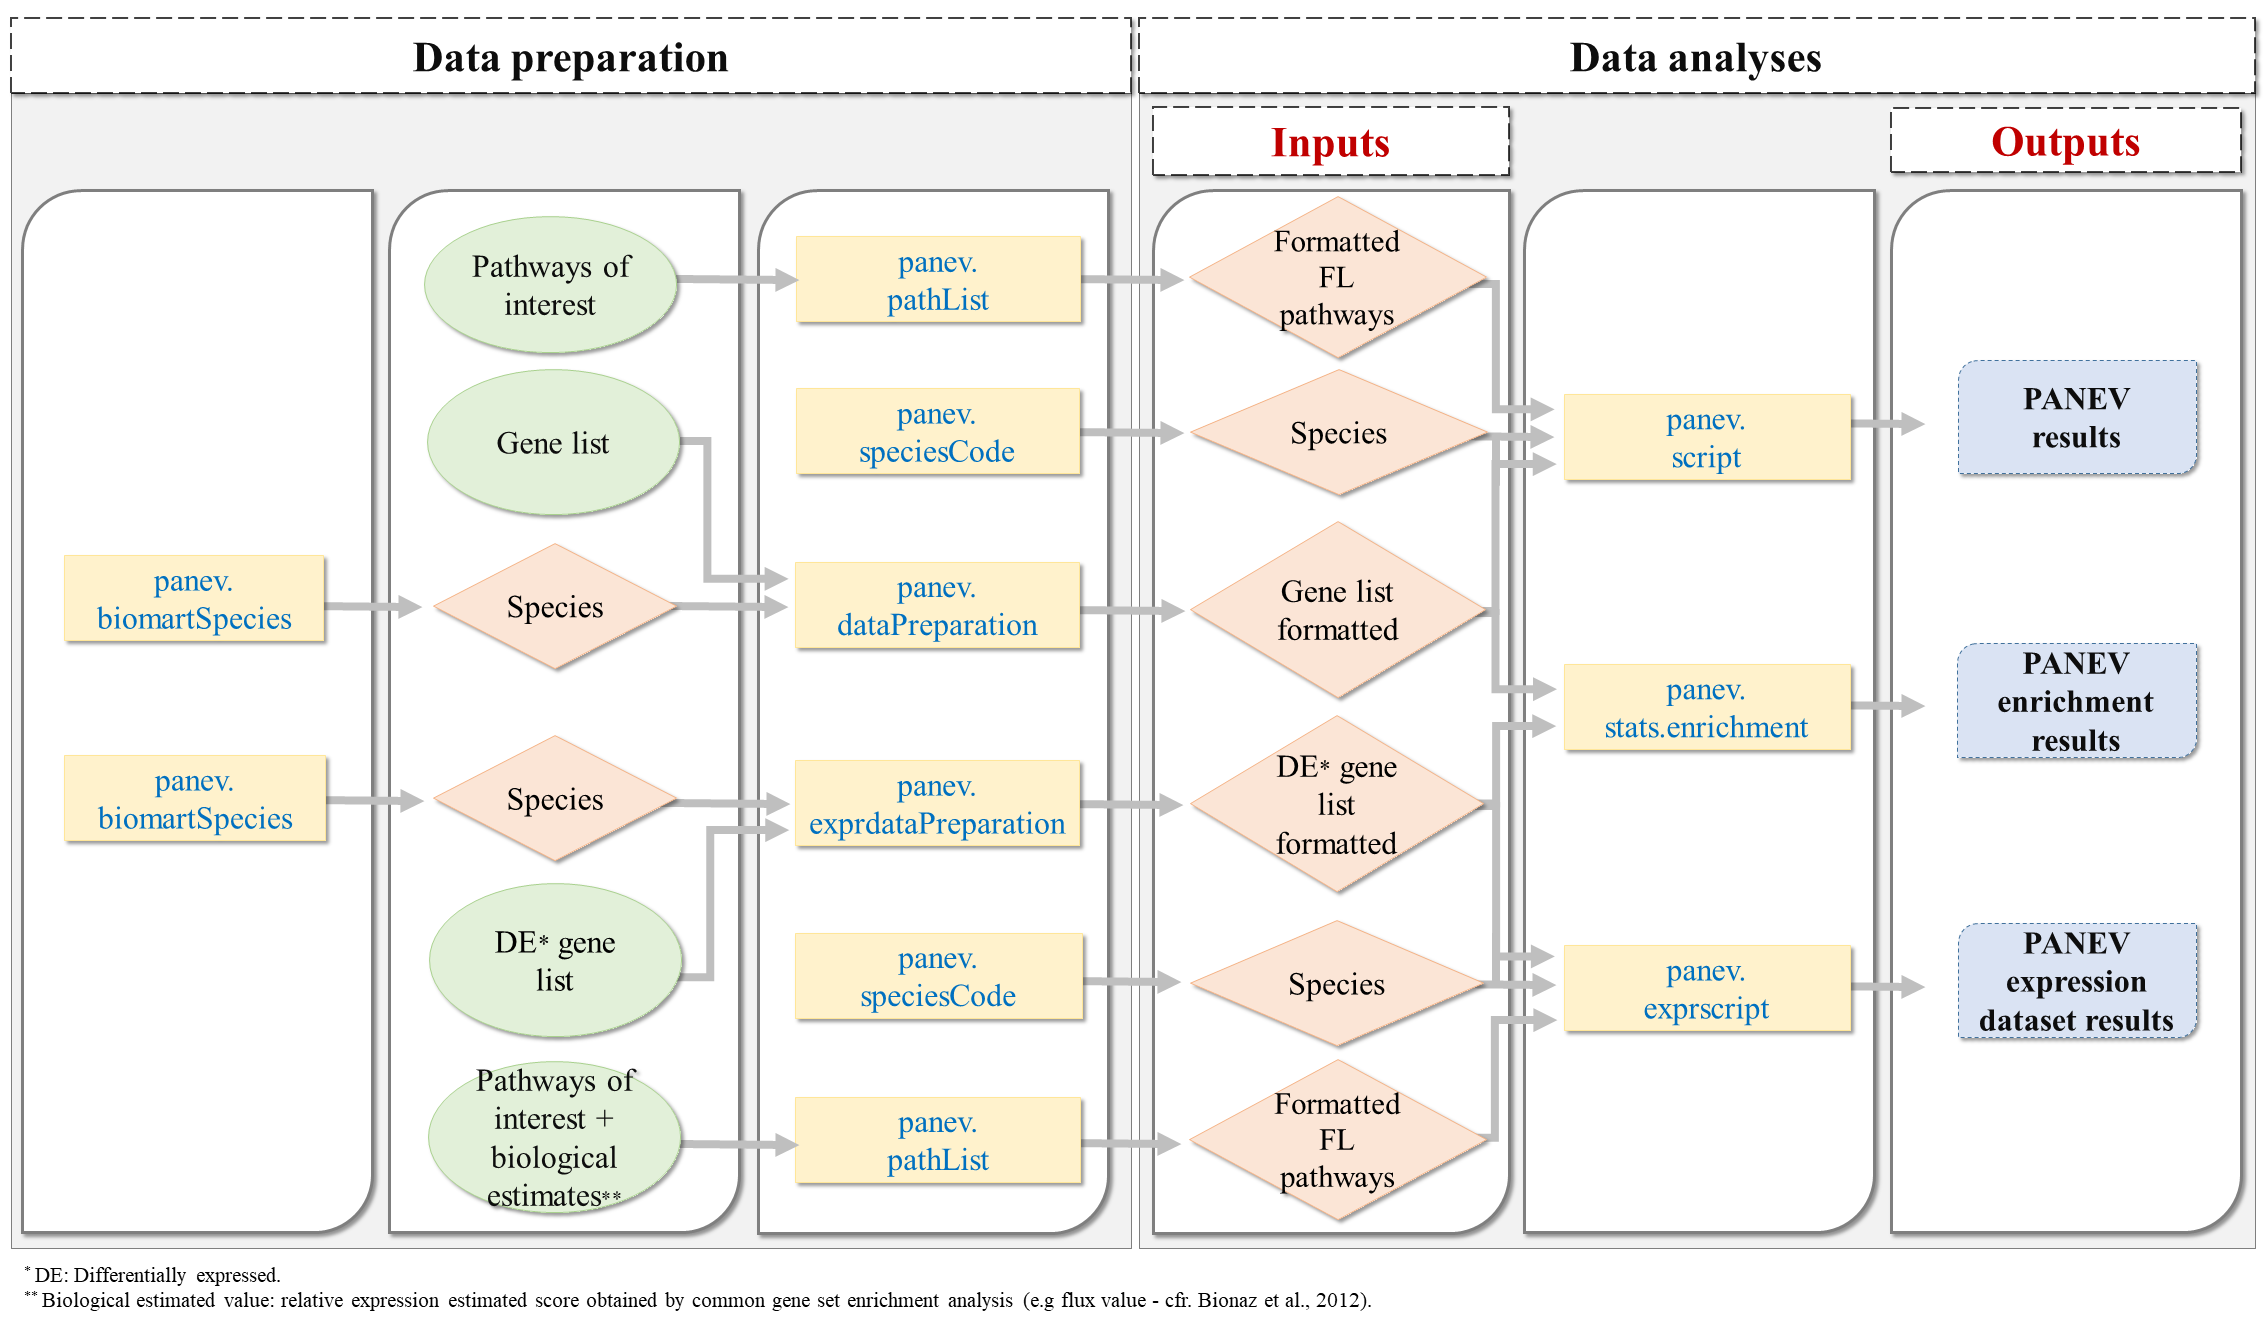
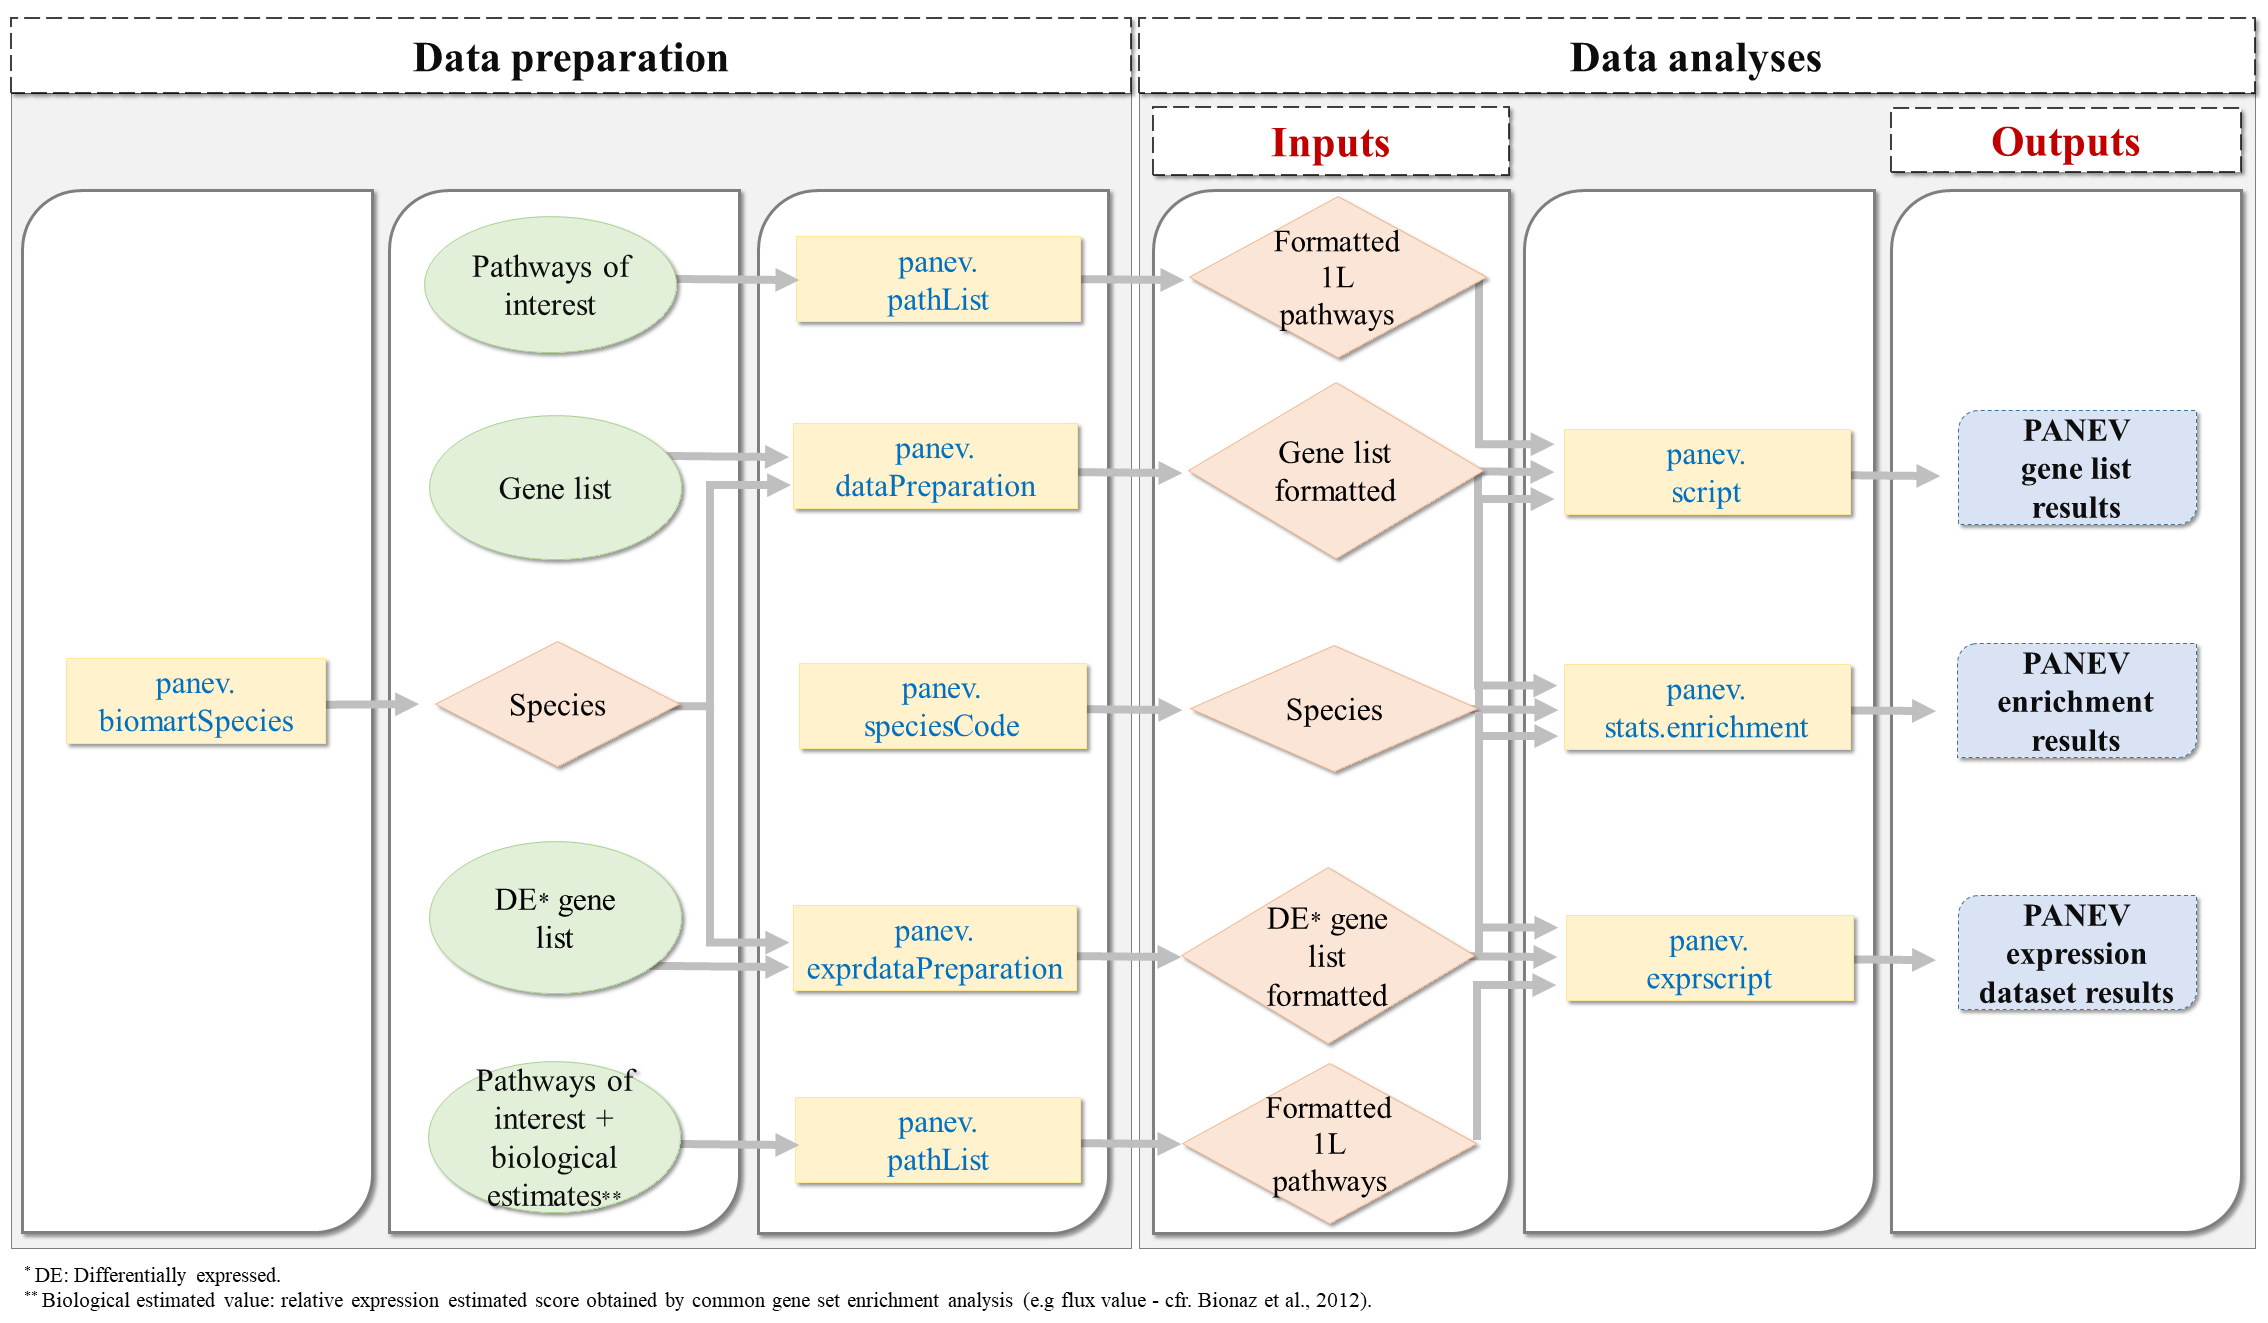
readme updated

Changed region(s): [[0.0309, 0.2169, 0.9877, 0.9297], [0.8025, 0.5268, 0.8642, 0.5578]]

diff --git a/README.md b/README.md
@@ -13,7 +13,7 @@ Author: Valentino Palombo, Marco Milanesi, Gabriella Sferra, Stefano Capomaccio,
 
 Maintainer: Valentino Palombo <valentino.palombo@gmail.com>
 
-Description: PaNeV is an R package set for pathway-based network gene visualization. Based on information available on KEGG, it maps and visualizes genes within a network of upstream and downstream-connected pathways (from 1 to *n* levels). The pathway graphs help interpreting functional profiles of cluster of genes.
+Description: PANEV is an R package set for pathway-based network gene visualization. Based on information available on KEGG, it maps and visualizes genes within a network of upstream and downstream-connected pathways (from 1 to *n* levels). The graph helps to interpret functional profiles of cluster of genes.
 
 License: Artistic-2.0
 
@@ -31,7 +31,7 @@ Since the package relies on KEGG, PANEV returns meaningful results only for gene
 Installation
 ============
 
-This manual focuses on PaNeV v.1.0. PaNeV requires the pre-installation of ‘devtools’ package from CRAN (<https://cran.r-project.org/package=devtools>). Once satisfied the requirement, the R scripts and package described in this manual can be downloaded and installed from github link <https://github.com/vpalombo/panev>. The package is installed using:
+This manual focuses on PANEV v.1.0. PANEV requires the pre-installation of ‘devtools’ package from CRAN (<https://cran.r-project.org/package=devtools>). Once satisfied the requirement, the R scripts and package described in this manual can be downloaded and installed from github link (<https://github.com/vpalombo/panev>) using:
 
     #install devtools
     install.packages("devtools") #if needed
@@ -40,7 +40,7 @@ This manual focuses on PaNeV v.1.0. PaNeV requires the pre-installation of ‘de
     library("devtools")
     install_github("vpalombo/PANEV")
 
-To load the package into the R environment type:
+To load the package into the R environment (R ≥ 3.5.0) type:
 
     library("PANEV")
 
@@ -49,14 +49,14 @@ PANEV functions and workflow
 
 PANEV functions could be divided in two different steps: data preparation and data analyses.
 
-Since PANEV interrogates biomaRt or KEGG databases through KEGGREST, a **working internet connection** is required to properly run PANEV functions.
+Since PANEV interrogates biomaRt and/or KEGG databases, a **working internet connection** is required to properly run PANEV functions.
 
 <br> <img src="https://github.com/vpalombo/PANEV/tree/master/vignettes/images/fig1.jpg" alt="Fig.1: The general architecture of the workflow of PANEV package and schematic illustration of main functions. The yellow rectangles represent the PANEV functions. The green circles represent the input data lists, in particular gene or pathway lists. The red diamonds represent the output from data preparation PANEV functions. The blue rectangles represent the final PANEV outcomes." width="450"> <br>
 
 Example files
 =============
 
-Example input files used in the help pages can be created with the command:
+Trial data files used in the help pages can be created with the command:
 
 ``` r
 # Copy the example data in the current working directory
@@ -73,7 +73,7 @@ The files comprise:
     -   *exprdata.txt*. An example of differentally expressed genes (DEG) list properly formatted and ready to run PANEV main functions;
     -   *expr\_listPath.txt*. An example file containing the list of main pathway of interest (FL or 1L) with relative expression estimated scores \[i.e. flux values obtained with Dinamic Impact Approach (Bionaz et al., 2012)\].
 
-Example input files used for the validation in reference publication can be created using the command:
+Input files used for the validation in reference publication can be created using the command:
 
 ``` r
 # Copy the example data in the current working directory
@@ -93,7 +93,7 @@ In this case, the files comprise:
 Data preparation
 ================
 
-The preparation of a properly formatted **list of genes** and **main pathways of interest** (FL or 1L) is the first step before run main PANEV functions.
+The preparation of a properly formatted **list of genes** and **main pathways of interest** (FL or 1L) is the first step before running main PANEV functions.
 
 Gene list preparation
 ---------------------
@@ -145,7 +145,7 @@ For genomic data, PANEV requires a specific format dataset. The list of the gene
 
 User can create a properly formatted dataset from a simple gene list using *panev.dataPreparation* function. This function will convert the single gene list from **ensembl** to **entrez** gene ID (or vice versa), and add at the same time the **gene symbol**.
 
-It is strongly recommended to run this function before using *panev.script*.
+It is recommended to run this function before using *panev.script*.
 
 Preparation of formatted gene list from ensembl gene ID:
 
@@ -229,7 +229,7 @@ For transcriptomic data, PANEV requires a specific format dataset. The gene list
 
 User can create a PANEV formatted dataset using *panev.exprdataPreparation* function. This function will convert the DEG list with relative **FC** and **p-value** from **ensembl** to **entrez** gene ID (or vice versa), and add at the same time **gene symbols**.
 
-It is strongly recommended to run this function before using *panev.exprscript*.
+It is recommended to run this function before using *panev.exprscript*.
 
 Preparation of formatted DEG list from ensembl gene ID:
 
@@ -343,19 +343,19 @@ list
 
 ### For genomic dataset analysis
 
-In case of genomic dataset analysis, the FL must be provided as a **vector of PANEV pathways identifiers** (*path\_ID*) obtained with *panev.pathList*.
+In case of genomic dataset analysis, the FL (1L) must be provided as a **vector of PANEV pathways identifiers** (*path\_ID*) obtained with *panev.pathList*.
 
 ``` r
-# Create a vector of pathways of interest (FL)
+# Create a vector of main pathways of interest (FL)
 FL.gene <- c("path:map00061", "path:map00062", "path:map00071", "path:map00072")
 ```
 
 ### For transcriptomic dataset analysis
 
-In case of transcriptomic dataset analysis, the FL must be provided as a **'*.txt*' file**, stored in working directory, with the **list of *path\_ID***, obtained with *panev.pathList*, and **relative expression estimated scores**, obtained by gene set enrichment analysis \[e.g. flux value (Bionaz et al., 2012)\].
+In case of transcriptomic dataset analysis, the (1L) FL must be provided as a **'*.txt*' file**, stored in working directory, with the **list of *path\_ID***, obtained with *panev.pathList*, and **relative expression estimated scores**, obtained by gene set enrichment analysis \[e.g. flux value (Bionaz et al., 2012)\].
 
 ``` r
-# Example of pathways of interest (FL) for transcriptomic data analysis
+# Example of main pathways of interest (FL) for transcriptomic data analysis
 FL.expr <- read.table("expr_listPath.txt", header=TRUE)
 FL.expr
 #           path_ID     value
@@ -427,20 +427,20 @@ KEGG.species.sus <- as.character(list[1,2])
 Data analyses
 =============
 
-PANEV analysis and result visualization
----------------------------------------
+PANEV analysis and visualization
+--------------------------------
 
 PANEV automates the process of functional classification of genes of interest, detecting the genes inside a **functional network** of pathways. The network, created from selected main pathways (FL) and upstream/downstream dependent ones, helps to interpret functional profiles of genes, underlying complex biological processes.
 
 ### Genomic dataset
 
-For genomic data, functional network is created, taking into account **upstream and downstream pathways** connected with FL pathways. The network is formed by pathways involved in sequential steps, interacting at more levels (from **2** to **n**), as required by the user. After that, PANEV highlights the genes inside the network and provides a pathways/genes-based network visualization. The genes highlighted may be considered good candidates for the trait/condition of interest.
+For genomic data, functional network is created, taking into account **upstream and downstream pathways** connected with FL pathways. The network is formed by pathways involved in sequential steps, connected at more levels (from **1** to **n**), as required by the user. After that, PANEV highlights the genes inside the network and provides a pathways/genes-based network visualization. The genes highlighted may be considered good candidates for the trait/condition of interest.
 
 The *panev.script* function requires:
 
 -   properly formatted gene list,
 
--   FL, as KEGG pathways identifiers,
+-   FL (1L), as KEGG pathways identifiers,
 
 -   species code,
 
@@ -491,7 +491,7 @@ panev.script(in.file = "data.txt",
 
 A new folder is created and files resulting from the analysis are saved inside.
 
-The function generates *n* text files, with *n* equal to the number of levels required for the investigation (i.e. level). Each single *.txt* file is a table containing the genes and the related pathways for a specific level
+The function generates *n* text files, with *n* equal to the number of levels required for the investigation. Each single *.txt* file is a table containing the genes and the related pathways for a specific level
 
 ``` r
 #Summary of PANEV results at FL level obtained with the example dataset
@@ -518,11 +518,11 @@ The *panev.script* function requires:
 
 -   properly formatted DEG list,
 
--   properly formatted FL list,
+-   properly formatted FL (1L) list,
 
 -   species code,
 
--   p-value: cut-off.
+-   p-value cut-off (for filtering subset of genes in the DEG list).
 
 Please see the above "Data preparation" section to understand how to prepare the correct input files.
 
@@ -575,7 +575,7 @@ panev.exprscript(in.file = "exprdata.txt",
 
 A new folder is created and files resulting from the analysis are saved inside.
 
-The function generates a diagram visualization, taking into account any possible connection among the FL pathways and DEGs. The diagram helps to interpret the results obtained from gene expression experiments showing the nodes (i.e. genes and pathways) coloured according to their FCs and pathway expression estimated scores \[e.g. flux values (Bionaz et al., 2012)\], respectively.
+The function generates a diagram visualization, taking into account any possible connections among the FL pathways and DEGs. The diagram helps to interpret the results obtained from gene expression experiments showing the nodes (i.e. genes and pathways) coloured according to their FCs and pathway expression estimated scores \[e.g. flux values (Bionaz et al., 2012)\], respectively.
 
 The classification into upregulated/downregulated genes/pathways is done as function of top FC/estimated score values.
 
@@ -683,7 +683,7 @@ A publicly available data set from a study on human type 1 diabetes mellitus - T
 
 In the reference study, the authors carried out a gene-based genome-wide association analysis and identified 452 significant genes. Among these genes, 171 were newly identified for type 1 diabetes mellitus, since ignored in previously studies or in literature. The authors further supported the significance of 53 out 171 discovered genes with replication studies and differential expression studies.
 
-In particular, the authors reported four non-HLA genes (*RASIP1*, *STRN4*, *BCAR1* and *MYL2*) and three *HLA* genes (*FYN*, *HLA-J* and *PPP1R11*) as validated by both replication and differential expression studies.
+In particular, the authors reported four non-HLA genes (*RASIP1*, *STRN4*, *BCAR1* and *MYL2*) and three *HLA* genes (*FYN*, *HLA-J* and *PPP1R11*) as validated by both replication and differential expression studies and represent the main result discussed by the authors.
 
 We performed PANEV considering the list of 171 newly genes, to verify the possible contribution of PANEV visualization for candidate genes identification and more broadly for high-throughput data interpretation.
 
@@ -947,7 +947,7 @@ Conclusion
 
 PANEV represents an interesting visualization approach for reducing the complexity of the challenge of high-throughput data mining and for candidate genes identification. PANEV providing an integrated summary among pathways and genes of interest, facilitating the data interpretation.
 
-The reference study validation confirms the effectiveness of PANEV approach, particularly in terms of timesaving.
+The contribution of PANEV tool could be significant not only for well-annotated species (i.e. Homo sapiens, Mus musculus) but also for all the organisms available in KEGG databases. Although KEGG is a popular and constantly updated database for biological network information, the lack or incomplete information on KEGG could represent the main PANEV disadvantage. The effectiveness of PANEV analysis in terms of result coherency was confirmed by the validation study. In particular, PANEV produces timesaving advantages, pointing users to genes that are biologically involved with the investigated trait.
 
 References
 ==========
